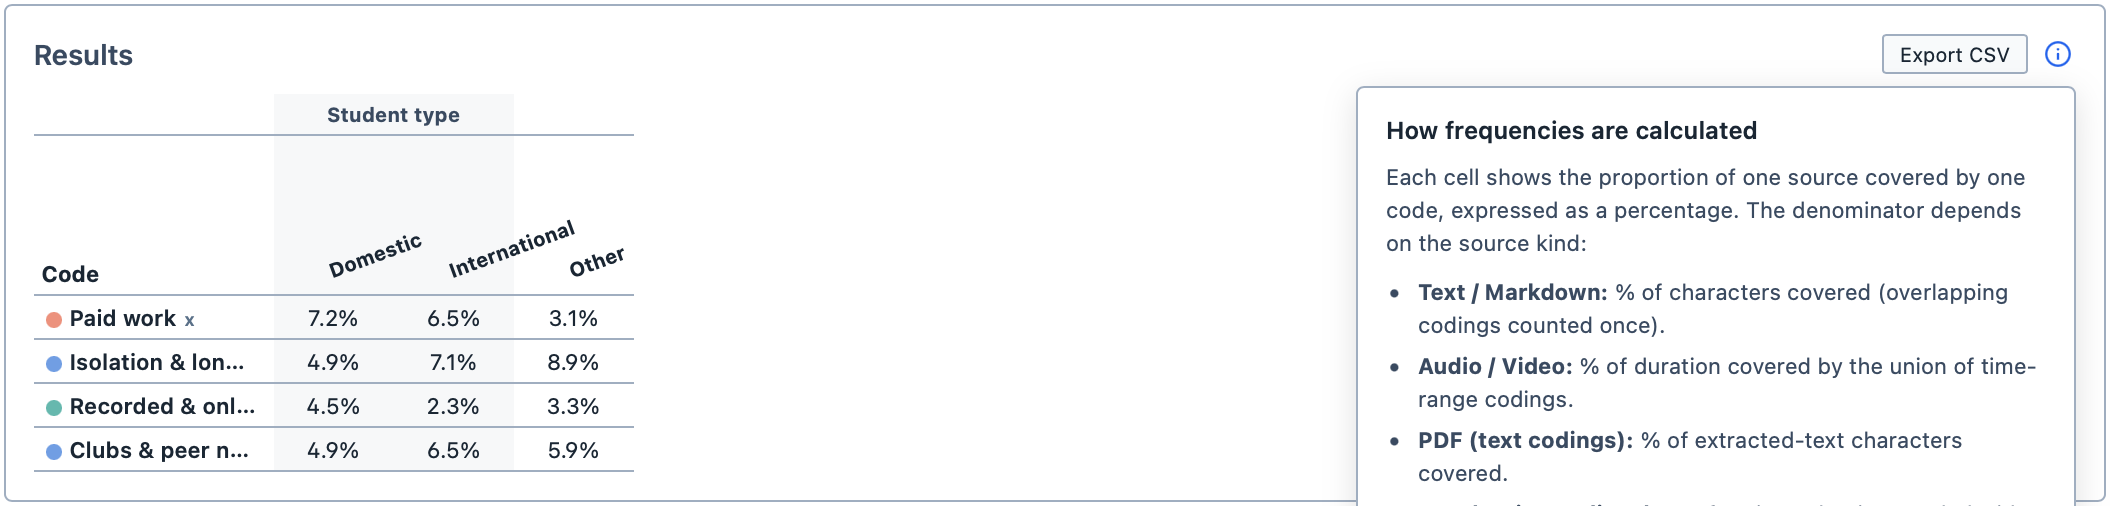
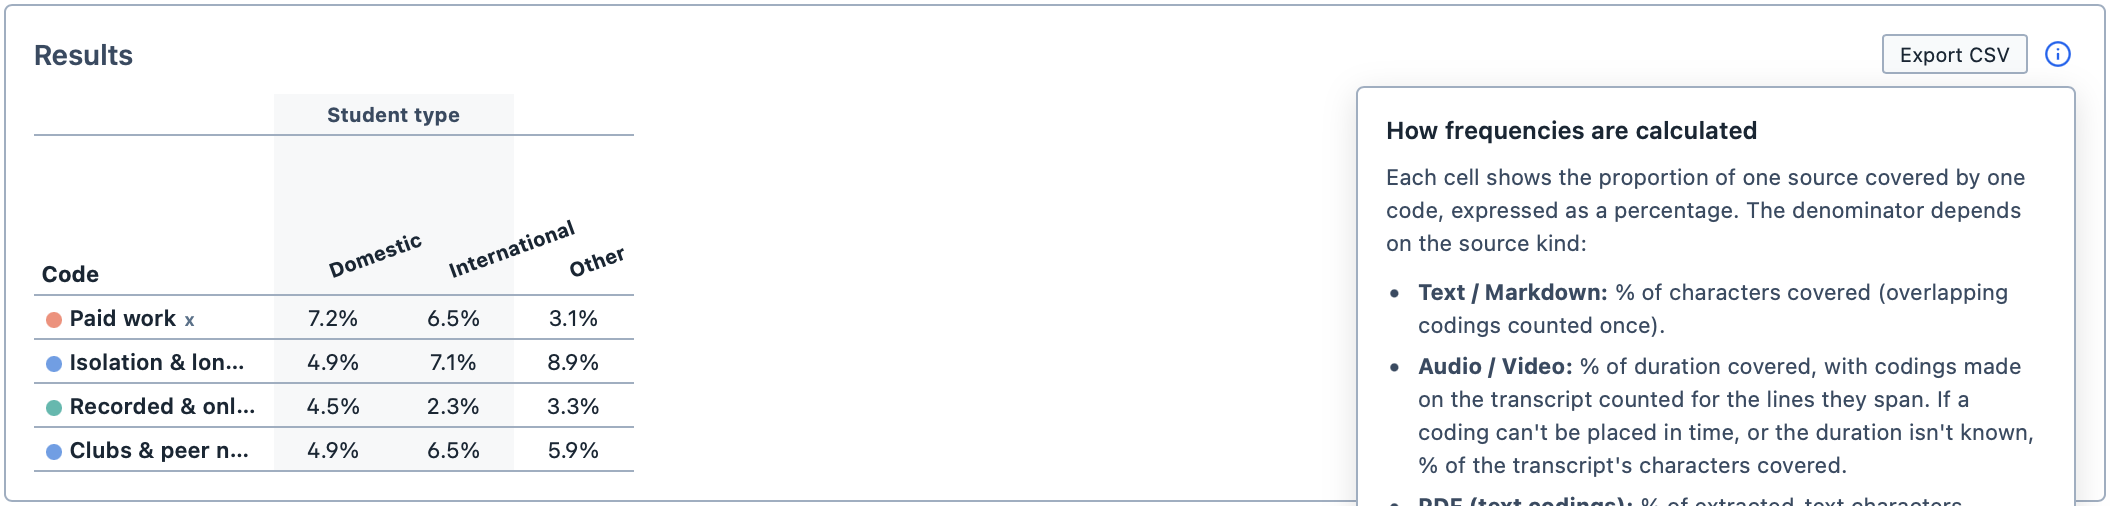
Describe how Code Frequencies measures audio and video
Codings made on a transcript now count for the lines they cover, and the
tool falls back to the transcript's text when a coding can't be placed in
time. New screenshot of the explanation.

Changed region(s): [[0.6466, 0.7708, 0.9545, 0.9486], [0.6466, 0.9783, 0.9237, 1.0], [0.8622, 0.7115, 0.9853, 0.7411]]

diff --git a/manual/guide/codefrequencies.md b/manual/guide/codefrequencies.md
@@ -38,7 +38,7 @@ How the percentage is calculated depends on the type of document:
 | Document type | Percentage of |
 | --- | --- |
 | Text | The characters in the document |
-| Audio and video | The length of the recording |
+| Audio and video | The length of the recording (see below) |
 | PDF (text selections) | The text in the PDF |
 | PDF (box selections) | The box selections in the PDF |
 | Image | The box selections in the image |
@@ -47,6 +47,8 @@ How the percentage is calculated depends on the type of document:
 ::: info
 Images do not have a "length" in the way that text or recordings do, so Magnolia measures them by their selections instead. If an image has four box selections and one of them is coded with a code, that code covers 25% of the image. You can see these rules at any time by clicking the `ⓘ` button above the table.
 :::
+
+For audio and video, a coding made on the timeline counts for the time it covers. A coding made on the transcript counts for the transcript lines it covers, using the times of those lines. If any coding can't be placed in time, because the transcript has no timestamps, or if Magnolia doesn't know how long the recording is, it measures the percentage of the transcript's text instead.
 
 <figure>
      <img src="./images/CodeFrequenciesInfo.png" alt="The explanation of how frequencies are calculated.">
